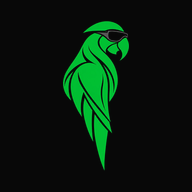
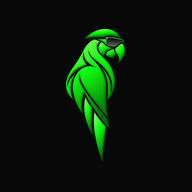
Troca o papagaio do site pelo icone oficial (volume por pena)
Favicons, icones do app, papagaio do menu, da conta, do album, do Spotted,
do quiz e da loja passam a usar o icone oficial v2. Mesmos tamanhos e
enquadramento dos arquivos antigos; cache renovado com ?v=3. Adiciona
tambem o PNG do peito 8x8 (945 px, 300 dpi) para a grafica.

Claude-Session: https://claude.ai/code/session_01F5cCgwQMnGX2ZhCRgGpQfT

Changed region(s): [[0.3125, 0.0938, 0.6875, 0.9062]]

diff --git a/src/pages/sacola.html b/src/pages/sacola.html
@@ -1,2 +1,2 @@
 <!--meta {"path":"/sacola","nav":"loja","funnel":true,"title":"Sua sacola · Brazilian Bayle","description":"Confira suas camisetas e os dados de entrega."} -->
-<header class="commerce-nav"><a href="/loja" class="commerce-brand"><img src="/assets/shop/bayle/papagaio-oficial.svg" alt="Brazilian Bayle" width="28" height="48"><span>BRAZILIAN <em>Bayle</em></span></a><div class="commerce-nav-links"><button type="button" class="commerce-help" data-support-open aria-haspopup="dialog" aria-controls="supportDialog">Ajuda</button><a href="/sacola">Sacola (<span data-cart-count>0</span>)</a></div></header><section class="commerce-shell"><a class="commerce-back" href="/loja">← Voltar para a coleção</a><p class="commerce-kicker">BRAZILIAN BAYLE · SUA COLEÇÃO</p><h1>Pronta para <em>a pista.</em></h1><p class="commerce-lead">Confira suas peças e calcule o frete pelo CEP.</p><div id="commerceAdded" class="commerce-notice commerce-added" role="status" hidden></div><div id="commerceNotice" class="commerce-notice" role="status" hidden></div><div class="commerce-columns"><section class="commerce-panel" aria-labelledby="bag-heading"><h2 id="bag-heading">Sua sacola</h2><form id="chooseVariant" class="commerce-variant" hidden><h3 id="variantName"></h3><img id="variantImage" class="commerce-variant-image" alt="" width="576" height="768"><div class="commerce-fields"><label>Cor<select name="color" required><option value="">Selecione</option><option value="preta">Preta</option><option value="off-white">Off-white</option><option value="cinza">Cinza</option></select></label><label>Tamanho<select name="size" required><option value="">Selecione</option></select></label></div><p class="commerce-error" id="variantError" role="alert"></p><button class="commerce-primary" type="submit">Adicionar à sacola</button></form><div id="cartLines"></div><div data-size-guide></div><p id="cartEmpty" hidden>Sua sacola está vazia. <a href="/loja">Escolher uma camiseta ↗</a></p><div id="cartTotals" class="commerce-totals"><p>Produtos <strong id="cartSubtotal">—</strong></p><p>Frete <strong id="cartShipping">A calcular</strong></p><p class="commerce-grand">Total <strong id="cartTotal">—</strong></p></div></section><section id="purchaseSteps" class="commerce-panel" hidden><form id="quoteForm"><p class="commerce-kicker">01 · FRETE</p><h2>Qual é o CEP de entrega?</h2><div class="commerce-fields"><label>CEP<input name="postal_code" inputmode="numeric" autocomplete="postal-code" required pattern="[0-9\-]{8,9}"></label></div><div id="shippingChoices" hidden><label class="commerce-fields">Modalidade de frete<select id="shippingService"></select></label></div><p class="commerce-error" id="quoteError" role="alert"></p><button class="commerce-primary" type="submit" id="quoteButton">Calcular frete</button><button class="commerce-primary" type="button" id="deliveryNext" hidden>Continuar para entrega →</button></form><form id="deliveryForm" hidden><p class="commerce-kicker">02 · ENTREGA</p><h2 tabindex="-1" id="deliveryHeading">Dados de entrega</h2><p>CEP de entrega <strong id="deliveryCep"></strong></p><button id="editCep" type="button" class="bayle-details">Alterar CEP ou frete</button><fieldset class="commerce-fields"><legend>Quem recebe</legend><label class="full">Nome completo<input name="name" autocomplete="name" required minlength="3" maxlength="100"></label><label class="full">E-mail<input name="email" type="email" autocomplete="email" required maxlength="254"></label><label>CPF<input name="document" inputmode="numeric" autocomplete="off" required pattern="[0-9.\-]{11,14}"></label><label>Celular<input name="phone" type="tel" autocomplete="tel" required maxlength="15"></label></fieldset><fieldset class="commerce-fields"><legend>Onde entregar</legend><p class="commerce-fine full" id="addressStatus" role="status" aria-live="polite"></p><label class="full">Rua / avenida<input name="street" autocomplete="address-line1" required maxlength="150"></label><label>Número<input name="number" required maxlength="20"></label><label>Complemento <span>(opcional)</span><input name="complement" autocomplete="address-line2" maxlength="100"></label><label>Bairro<input name="neighborhood" required maxlength="100"></label><label>Cidade<input name="city" autocomplete="address-level2" required maxlength="100"></label><label>UF<select name="state" autocomplete="address-level1" required><option value="">Selecione</option><option>AC</option><option>AL</option><option>AP</option><option>AM</option><option>BA</option><option>CE</option><option>DF</option><option>ES</option><option>GO</option><option>MA</option><option>MT</option><option>MS</option><option>MG</option><option>PA</option><option>PB</option><option>PR</option><option>PE</option><option>PI</option><option>RJ</option><option>RN</option><option>RS</option><option>RO</option><option>RR</option><option>SC</option><option>SP</option><option>SE</option><option>TO</option></select></label></fieldset><p class="commerce-notice" id="paymentUnavailable" role="status" hidden>O pagamento online será liberado em breve.</p><p class="commerce-error" id="deliveryError" role="alert"></p><button class="commerce-primary" type="submit" id="checkoutCta" data-mp-checkout-cta="checkout-api">Continuar para pagamento →</button><p class="commerce-fine">Seus dados serão usados para processar o pedido e a entrega. <a href="/privacidade">Política de privacidade</a>.</p></form></section></div></section>
+<header class="commerce-nav"><a href="/loja" class="commerce-brand"><img src="/assets/shop/bayle/papagaio-oficial.svg?v=3" alt="Brazilian Bayle" width="28" height="48"><span>BRAZILIAN <em>Bayle</em></span></a><div class="commerce-nav-links"><button type="button" class="commerce-help" data-support-open aria-haspopup="dialog" aria-controls="supportDialog">Ajuda</button><a href="/sacola">Sacola (<span data-cart-count>0</span>)</a></div></header><section class="commerce-shell"><a class="commerce-back" href="/loja">← Voltar para a coleção</a><p class="commerce-kicker">BRAZILIAN BAYLE · SUA COLEÇÃO</p><h1>Pronta para <em>a pista.</em></h1><p class="commerce-lead">Confira suas peças e calcule o frete pelo CEP.</p><div id="commerceAdded" class="commerce-notice commerce-added" role="status" hidden></div><div id="commerceNotice" class="commerce-notice" role="status" hidden></div><div class="commerce-columns"><section class="commerce-panel" aria-labelledby="bag-heading"><h2 id="bag-heading">Sua sacola</h2><form id="chooseVariant" class="commerce-variant" hidden><h3 id="variantName"></h3><img id="variantImage" class="commerce-variant-image" alt="" width="576" height="768"><div class="commerce-fields"><label>Cor<select name="color" required><option value="">Selecione</option><option value="preta">Preta</option><option value="off-white">Off-white</option><option value="cinza">Cinza</option></select></label><label>Tamanho<select name="size" required><option value="">Selecione</option></select></label></div><p class="commerce-error" id="variantError" role="alert"></p><button class="commerce-primary" type="submit">Adicionar à sacola</button></form><div id="cartLines"></div><div data-size-guide></div><p id="cartEmpty" hidden>Sua sacola está vazia. <a href="/loja">Escolher uma camiseta ↗</a></p><div id="cartTotals" class="commerce-totals"><p>Produtos <strong id="cartSubtotal">—</strong></p><p>Frete <strong id="cartShipping">A calcular</strong></p><p class="commerce-grand">Total <strong id="cartTotal">—</strong></p></div></section><section id="purchaseSteps" class="commerce-panel" hidden><form id="quoteForm"><p class="commerce-kicker">01 · FRETE</p><h2>Qual é o CEP de entrega?</h2><div class="commerce-fields"><label>CEP<input name="postal_code" inputmode="numeric" autocomplete="postal-code" required pattern="[0-9\-]{8,9}"></label></div><div id="shippingChoices" hidden><label class="commerce-fields">Modalidade de frete<select id="shippingService"></select></label></div><p class="commerce-error" id="quoteError" role="alert"></p><button class="commerce-primary" type="submit" id="quoteButton">Calcular frete</button><button class="commerce-primary" type="button" id="deliveryNext" hidden>Continuar para entrega →</button></form><form id="deliveryForm" hidden><p class="commerce-kicker">02 · ENTREGA</p><h2 tabindex="-1" id="deliveryHeading">Dados de entrega</h2><p>CEP de entrega <strong id="deliveryCep"></strong></p><button id="editCep" type="button" class="bayle-details">Alterar CEP ou frete</button><fieldset class="commerce-fields"><legend>Quem recebe</legend><label class="full">Nome completo<input name="name" autocomplete="name" required minlength="3" maxlength="100"></label><label class="full">E-mail<input name="email" type="email" autocomplete="email" required maxlength="254"></label><label>CPF<input name="document" inputmode="numeric" autocomplete="off" required pattern="[0-9.\-]{11,14}"></label><label>Celular<input name="phone" type="tel" autocomplete="tel" required maxlength="15"></label></fieldset><fieldset class="commerce-fields"><legend>Onde entregar</legend><p class="commerce-fine full" id="addressStatus" role="status" aria-live="polite"></p><label class="full">Rua / avenida<input name="street" autocomplete="address-line1" required maxlength="150"></label><label>Número<input name="number" required maxlength="20"></label><label>Complemento <span>(opcional)</span><input name="complement" autocomplete="address-line2" maxlength="100"></label><label>Bairro<input name="neighborhood" required maxlength="100"></label><label>Cidade<input name="city" autocomplete="address-level2" required maxlength="100"></label><label>UF<select name="state" autocomplete="address-level1" required><option value="">Selecione</option><option>AC</option><option>AL</option><option>AP</option><option>AM</option><option>BA</option><option>CE</option><option>DF</option><option>ES</option><option>GO</option><option>MA</option><option>MT</option><option>MS</option><option>MG</option><option>PA</option><option>PB</option><option>PR</option><option>PE</option><option>PI</option><option>RJ</option><option>RN</option><option>RS</option><option>RO</option><option>RR</option><option>SC</option><option>SP</option><option>SE</option><option>TO</option></select></label></fieldset><p class="commerce-notice" id="paymentUnavailable" role="status" hidden>O pagamento online será liberado em breve.</p><p class="commerce-error" id="deliveryError" role="alert"></p><button class="commerce-primary" type="submit" id="checkoutCta" data-mp-checkout-cta="checkout-api">Continuar para pagamento →</button><p class="commerce-fine">Seus dados serão usados para processar o pedido e a entrega. <a href="/privacidade">Política de privacidade</a>.</p></form></section></div></section>

diff --git a/src/pages/checkout.html b/src/pages/checkout.html
@@ -1,2 +1,2 @@
 <!--meta {"path":"/checkout","nav":"loja","funnel":true,"title":"Pagamento · Brazilian Bayle","description":"Finalize seu pedido com Mercado Pago."} -->
-<header class="commerce-nav"><a href="/loja" class="commerce-brand"><img src="/assets/shop/bayle/papagaio-oficial.svg" alt="Brazilian Bayle" width="28" height="48"><span>BRAZILIAN <em>Bayle</em></span></a><div class="commerce-nav-links"><button type="button" class="commerce-help" data-support-open aria-haspopup="dialog" aria-controls="supportDialog">Ajuda</button><a href="/sacola">Sacola (<span data-cart-count>0</span>)</a></div></header><section class="commerce-shell"><a class="commerce-back" href="/sacola">← Rever sacola e entrega</a><p class="commerce-kicker">03 · PAGAMENTO SEGURO</p><h1>O próximo Bayle <em>é seu.</em></h1><div id="commerceNotice" class="commerce-notice" role="status" hidden></div><div class="commerce-columns"><aside class="commerce-panel"><h2>Resumo do pedido</h2><div id="paymentLines"></div><div data-size-guide></div><div class="commerce-totals"><p>Produtos <strong id="paymentSubtotal">—</strong></p><p>Frete <strong id="paymentShipping">—</strong></p><p class="commerce-grand">Total <strong id="paymentTotal">—</strong></p></div><p class="commerce-fine">Pagamento processado pelo Mercado Pago. Os dados do cartão são preenchidos em campos protegidos.</p></aside><section class="commerce-panel"><h2>Como prefere pagar?</h2><div class="commerce-methods" role="group" aria-label="Meio de pagamento"><button type="button" data-method="pix" aria-pressed="true">Pix</button><button type="button" data-method="card" aria-pressed="false">Cartão de crédito</button></div><section id="pixPanel"><p>Pague pelo aplicativo do seu banco. O pedido só será confirmado após a aprovação do pagamento.</p><button class="commerce-primary" id="pixPay" type="button" disabled>Gerar Pix</button><div id="pixResult" hidden><img id="pixQr" alt="QR Code para pagamento Pix" width="240" height="240" hidden><label>Pix copia e cola<textarea id="pixCode" readonly rows="4"></textarea></label><button type="button" class="commerce-secondary" id="copyPix">Copiar código Pix</button><p>Aguardando confirmação do banco.</p></div></section><form id="form-checkout" hidden><label>Escolha o número de parcelas<select id="cardInstallments"><option value="1">1x</option><option value="2">2x</option><option value="3">3x</option><option value="4">4x</option><option value="5">5x</option><option value="6">6x</option><option value="7">7x</option><option value="8">8x</option><option value="9">9x</option><option value="10">10x</option></select></label><p id="cardInstallmentsStatus" class="commerce-fine" role="status">As condições aparecem após informar o cartão.</p><label>Número do cartão<div id="form-checkout__cardNumber" class="secure-field"></div></label><div class="commerce-fields"><label>Validade<div id="form-checkout__expirationDate" class="secure-field"></div></label><label>Código de segurança<div id="form-checkout__securityCode" class="secure-field"></div></label></div><label>Nome no cartão<input id="form-checkout__cardholderName" autocomplete="cc-name" required></label><label>E-mail do titular<input id="form-checkout__cardholderEmail" type="email" autocomplete="email" required></label><label>CPF do titular<input id="form-checkout__identificationNumber" inputmode="numeric" required></label><select id="form-checkout__issuer" hidden aria-label="Emissor"></select><select id="form-checkout__installments" hidden aria-label="Parcelas do Mercado Pago"></select><select id="form-checkout__identificationType" hidden aria-label="Tipo de documento"><option value="CPF">CPF</option></select><p class="commerce-fine">Parcele em até 10x. As opções, os juros e o valor das parcelas são informados pelo Mercado Pago para o seu cartão.</p><button class="commerce-primary" id="cardPay" type="submit" disabled>Pagar com cartão</button></form><p id="paymentMessage" class="commerce-notice" role="status" aria-live="polite">Carregando pedido…</p><button type="button" class="commerce-secondary" id="refreshPayment" hidden>Consultar pagamento</button></section></div></section>
+<header class="commerce-nav"><a href="/loja" class="commerce-brand"><img src="/assets/shop/bayle/papagaio-oficial.svg?v=3" alt="Brazilian Bayle" width="28" height="48"><span>BRAZILIAN <em>Bayle</em></span></a><div class="commerce-nav-links"><button type="button" class="commerce-help" data-support-open aria-haspopup="dialog" aria-controls="supportDialog">Ajuda</button><a href="/sacola">Sacola (<span data-cart-count>0</span>)</a></div></header><section class="commerce-shell"><a class="commerce-back" href="/sacola">← Rever sacola e entrega</a><p class="commerce-kicker">03 · PAGAMENTO SEGURO</p><h1>O próximo Bayle <em>é seu.</em></h1><div id="commerceNotice" class="commerce-notice" role="status" hidden></div><div class="commerce-columns"><aside class="commerce-panel"><h2>Resumo do pedido</h2><div id="paymentLines"></div><div data-size-guide></div><div class="commerce-totals"><p>Produtos <strong id="paymentSubtotal">—</strong></p><p>Frete <strong id="paymentShipping">—</strong></p><p class="commerce-grand">Total <strong id="paymentTotal">—</strong></p></div><p class="commerce-fine">Pagamento processado pelo Mercado Pago. Os dados do cartão são preenchidos em campos protegidos.</p></aside><section class="commerce-panel"><h2>Como prefere pagar?</h2><div class="commerce-methods" role="group" aria-label="Meio de pagamento"><button type="button" data-method="pix" aria-pressed="true">Pix</button><button type="button" data-method="card" aria-pressed="false">Cartão de crédito</button></div><section id="pixPanel"><p>Pague pelo aplicativo do seu banco. O pedido só será confirmado após a aprovação do pagamento.</p><button class="commerce-primary" id="pixPay" type="button" disabled>Gerar Pix</button><div id="pixResult" hidden><img id="pixQr" alt="QR Code para pagamento Pix" width="240" height="240" hidden><label>Pix copia e cola<textarea id="pixCode" readonly rows="4"></textarea></label><button type="button" class="commerce-secondary" id="copyPix">Copiar código Pix</button><p>Aguardando confirmação do banco.</p></div></section><form id="form-checkout" hidden><label>Escolha o número de parcelas<select id="cardInstallments"><option value="1">1x</option><option value="2">2x</option><option value="3">3x</option><option value="4">4x</option><option value="5">5x</option><option value="6">6x</option><option value="7">7x</option><option value="8">8x</option><option value="9">9x</option><option value="10">10x</option></select></label><p id="cardInstallmentsStatus" class="commerce-fine" role="status">As condições aparecem após informar o cartão.</p><label>Número do cartão<div id="form-checkout__cardNumber" class="secure-field"></div></label><div class="commerce-fields"><label>Validade<div id="form-checkout__expirationDate" class="secure-field"></div></label><label>Código de segurança<div id="form-checkout__securityCode" class="secure-field"></div></label></div><label>Nome no cartão<input id="form-checkout__cardholderName" autocomplete="cc-name" required></label><label>E-mail do titular<input id="form-checkout__cardholderEmail" type="email" autocomplete="email" required></label><label>CPF do titular<input id="form-checkout__identificationNumber" inputmode="numeric" required></label><select id="form-checkout__issuer" hidden aria-label="Emissor"></select><select id="form-checkout__installments" hidden aria-label="Parcelas do Mercado Pago"></select><select id="form-checkout__identificationType" hidden aria-label="Tipo de documento"><option value="CPF">CPF</option></select><p class="commerce-fine">Parcele em até 10x. As opções, os juros e o valor das parcelas são informados pelo Mercado Pago para o seu cartão.</p><button class="commerce-primary" id="cardPay" type="submit" disabled>Pagar com cartão</button></form><p id="paymentMessage" class="commerce-notice" role="status" aria-live="polite">Carregando pedido…</p><button type="button" class="commerce-secondary" id="refreshPayment" hidden>Consultar pagamento</button></section></div></section>

diff --git a/_local/build.js b/_local/build.js
@@ -34,7 +34,7 @@ const ORG = {
   "@type": "Organization",
   name: "Brazilian Bayle",
   url: SITE,
-  logo: `${SITE}/assets/icon-512.png`,
+  logo: `${SITE}/assets/icon-512.png?v=3`,
   email: EMAIL,
   sameAs: [IG],
   areaServed: "BR",
@@ -53,8 +53,8 @@ const WEBSITE = {
 const CLARITY_TAG = "<script type=\"text/javascript\">(function(c,l,a,r,i,t,y){\n    c[a]=c[a]||function(){(c[a].q=c[a].q||[]).push(arguments)};\n    t=l.createElement(r);t.async=1;t.src=\"https://www.clarity.ms/tag/\"+i;\n    y=l.getElementsByTagName(r)[0];y.parentNode.insertBefore(t,y);\n})(window, document, \"clarity\", \"script\", \"zjw9clb29l\");</script>";
 
 function layout(meta, body) {
-  if (meta.nav === 'moderacao') return `<!doctype html><html lang="pt-BR"><head><meta charset="utf-8"><meta name="viewport" content="width=device-width,initial-scale=1"><title>Moderação · Brazilian Bayle</title><meta name="robots" content="noindex,nofollow"><meta name="theme-color" content="#1c2430"><link rel="icon" href="/assets/favicon-32.png"><link rel="stylesheet" href="/moderacao.css">${CLARITY_TAG}</head><body>${body.trim()}<script src="/assets/vendor/supabase-2.49.8.js"></script><script src="/backend-config.js"></script><script src="/backend.js"></script><script src="/events-2026.js"></script><script src="/moderation.js"></script></body></html>`;
-  if (meta.nav === 'links') return `<!doctype html><html lang="pt-BR"><head><meta charset="utf-8"><meta name="viewport" content="width=device-width,initial-scale=1,viewport-fit=cover"><title>Links oficiais · Brazilian Bayle</title><meta name="description" content="${esc(meta.description)}"><link rel="canonical" href="${SITE}/links"><meta name="theme-color" content="#080908"><meta property="og:type" content="website"><meta property="og:title" content="Brazilian Bayle · Links oficiais"><meta property="og:description" content="${esc(meta.description)}"><meta property="og:url" content="${SITE}/links"><meta property="og:image" content="${SITE}/assets/og-brazilian-v3.jpg"><link rel="icon" href="/assets/favicon-32.png"><link rel="preload" href="/assets/fonts/syne-700.woff2" as="font" type="font/woff2" crossorigin><link rel="preload" href="/assets/hero-dj-poster-800.webp" as="image"><link rel="stylesheet" href="/styles.css">${CLARITY_TAG}</head><body class="page-links"><a class="skip" href="#conteudo">Pular para os links</a>${body.trim()}<script src="/media-guard.js" defer></script></body></html>`;
+  if (meta.nav === 'moderacao') return `<!doctype html><html lang="pt-BR"><head><meta charset="utf-8"><meta name="viewport" content="width=device-width,initial-scale=1"><title>Moderação · Brazilian Bayle</title><meta name="robots" content="noindex,nofollow"><meta name="theme-color" content="#1c2430"><link rel="icon" href="/assets/favicon-32.png?v=3"><link rel="stylesheet" href="/moderacao.css">${CLARITY_TAG}</head><body>${body.trim()}<script src="/assets/vendor/supabase-2.49.8.js"></script><script src="/backend-config.js"></script><script src="/backend.js"></script><script src="/events-2026.js"></script><script src="/moderation.js"></script></body></html>`;
+  if (meta.nav === 'links') return `<!doctype html><html lang="pt-BR"><head><meta charset="utf-8"><meta name="viewport" content="width=device-width,initial-scale=1,viewport-fit=cover"><title>Links oficiais · Brazilian Bayle</title><meta name="description" content="${esc(meta.description)}"><link rel="canonical" href="${SITE}/links"><meta name="theme-color" content="#080908"><meta property="og:type" content="website"><meta property="og:title" content="Brazilian Bayle · Links oficiais"><meta property="og:description" content="${esc(meta.description)}"><meta property="og:url" content="${SITE}/links"><meta property="og:image" content="${SITE}/assets/og-brazilian-v3.jpg"><link rel="icon" href="/assets/favicon-32.png?v=3"><link rel="preload" href="/assets/fonts/syne-700.woff2" as="font" type="font/woff2" crossorigin><link rel="preload" href="/assets/hero-dj-poster-800.webp" as="image"><link rel="stylesheet" href="/styles.css">${CLARITY_TAG}</head><body class="page-links"><a class="skip" href="#conteudo">Pular para os links</a>${body.trim()}<script src="/media-guard.js" defer></script></body></html>`;
   const url = SITE + (meta.path === "/" ? "/" : meta.path);
   const title = meta.path === "/" ? meta.title : `${meta.title} · Brazilian Bayle`;
   const jsonld = [ORG, WEBSITE, ...(meta.jsonld || [])].map(j => `<script type="application/ld+json">${JSON.stringify(j)}</script>`).join("\n");
@@ -73,9 +73,9 @@ ${meta.path === "/" ? '<meta name="facebook-domain-verification" content="a76rwo
 ${meta.noindex ? '<meta name="robots" content="noindex">' : ""}
 <meta name="theme-color" content="#FFD400">
 <link rel="icon" href="/favicon.ico" sizes="48x48">
-<link rel="icon" type="image/png" sizes="48x48" href="/assets/favicon-48.png">
-<link rel="icon" type="image/png" sizes="192x192" href="/assets/icon-192.png?v=2">
-<link rel="apple-touch-icon" href="/assets/apple-touch-icon.png?v=2">
+<link rel="icon" type="image/png" sizes="48x48" href="/assets/favicon-48.png?v=3">
+<link rel="icon" type="image/png" sizes="192x192" href="/assets/icon-192.png?v=3">
+<link rel="apple-touch-icon" href="/assets/apple-touch-icon.png?v=3">
 <meta property="og:type" content="${meta.ogType || "website"}">
 <meta property="og:site_name" content="Brazilian Bayle">
 <meta property="og:locale" content="pt_BR">
@@ -106,7 +106,7 @@ ${CLARITY_TAG}</head>
   <button class="burger" id="burger" aria-label="Abrir menu" aria-expanded="false" aria-controls="side"><i></i><i></i></button>
   <p class="mbar-tag"><b><img class="mbar-wordmark" src="/assets/logo-menu-b6.png?v=1" alt="Brazilian Bayle" width="115" height="54"></b></p>
   <div class="mbar-access">
-  <a href="/" class="mbar-logo" aria-label="Brazilian Bayle, início"><img src="/assets/papagaio-logo.png?v=2" alt="" width="79" height="180"></a>
+  <a href="/" class="mbar-logo" aria-label="Brazilian Bayle, início"><img src="/assets/papagaio-logo.png?v=3" alt="" width="79" height="180"></a>
   <div class="account-nav"><a class="mbar-account" id="headerLogin" href="/conta">Entrar/Cadastrar</a><button type="button" class="header-user" id="headerUser" aria-expanded="false" aria-controls="headerAccountMenu" hidden><span id="headerNickname"></span><span aria-hidden="true">⌄</span></button><div class="header-account-menu" id="headerAccountMenu" hidden><a href="/conta">Configurações da conta</a><a href="/album">Meu álbum</a><a href="/spotted">Spotted</a><a href="/moderacao" data-owner-only hidden>👑 Moderação <span class="owner-badge" data-owner-badge hidden></span></a><button type="button" id="headerSignOut">Sair da conta</button><p id="headerAccountStatus" role="status"></p></div></div>
   </div>
 </div>

diff --git a/_local/cropped.js b/_local/cropped.js
@@ -2,5 +2,5 @@ const esc=s=>String(s).replace(/&/g,'&amp;').replace(/"/g,'&quot;').replace(/</g
 const colors=[['preta','Preta','#0b0b0b'],['off-white','Off-white','#ece6d8'],['cinza','Cinza','#8a8a86']];
 const photo=(p,color='preta')=>`/assets/shop/cropped/${p.artwork}-${color}${p.version||''}.webp`;
 module.exports=(products,SITE)=>products.map(p=>({rel:`loja/${p.slug}`,meta:{path:`/loja/${p.slug}`,nav:'produto',funnel:true,title:`Cropped ${p.name}`,description:`Cropped feminino Basic Streetwear ${p.name}. Preto, off-white ou cinza. 100% algodão.`,ogImage:SITE+photo(p)},body:`
-<header class="commerce-nav"><a href="/loja-feminina" class="commerce-brand"><img src="/assets/shop/bayle/papagaio-oficial.svg" alt="Brazilian Bayle" width="28" height="48"><span>BRAZILIAN <em>Bayle</em></span></a><div class="commerce-nav-links"><a href="/loja-feminina#feminina">Coleção</a><button type="button" class="commerce-help" data-support-open>Ajuda</button><a href="/sacola">Sacola (<span data-cart-count>0</span>)</a></div></header>
+<header class="commerce-nav"><a href="/loja-feminina" class="commerce-brand"><img src="/assets/shop/bayle/papagaio-oficial.svg?v=3" alt="Brazilian Bayle" width="28" height="48"><span>BRAZILIAN <em>Bayle</em></span></a><div class="commerce-nav-links"><a href="/loja-feminina#feminina">Coleção</a><button type="button" class="commerce-help" data-support-open>Ajuda</button><a href="/sacola">Sacola (<span data-cart-count>0</span>)</a></div></header>
 <div class="pdp" id="pdp" data-product="${p.id}" data-name="${esc(p.name)}" data-price="3990" data-collection="feminina"><nav class="pdp-crumbs" aria-label="Você está em"><ol><li><a href="/">Início</a></li><li><a href="/loja-feminina">Feminino</a></li><li aria-current="page">${esc(p.name)}</li></ol></nav><div class="pdp-top"><section class="pdp-gallery" aria-label="Fotos do cropped"><ul class="pdp-slides" id="pdpSlides"><li class="pdp-slide pdp-slide-main"><img id="pdpBack" src="${photo(p)}" alt="Cropped ${esc(p.name)}, costas" width="1122" height="1402" fetchpriority="high"></li></ul><p class="pdp-dots" aria-hidden="true"><i></i></p><p class="pdp-mock">Mockup ilustrativo da cor selecionada.</p></section><section class="pdp-buy" aria-labelledby="pdpTitle"><p class="pdp-kicker">Cropped feminino · Basic Streetwear</p><h1 id="pdpTitle">${esc(p.name)}</h1><p class="pdp-lede">Modelagem cropped, mangas amplas e estampa nas costas.</p><p class="pdp-price"><strong data-pdp-price>R$ 39,90</strong><span>no Pix ou no cartão</span></p><form id="pdpForm" class="pdp-form" novalidate><fieldset class="pdp-colors"><legend>Cor: <output id="pdpColorName">Preta</output></legend><div>${colors.map(([v,l,c],i)=>`<label class="pdp-swatch"><input type="radio" name="color" value="${v}"${i?'':' checked'}><span style="--swatch:${c}" aria-hidden="true"></span><b>${l}</b></label>`).join('')}</div></fieldset><fieldset class="pdp-sizes"><legend>Tamanho<a href="#medidas" class="pdp-guide-link">Tabela de medidas</a></legend><div>${p.sizes.map(s=>`<label class="pdp-size"><input type="radio" name="size" value="${s}" required><span>${s}</span></label>`).join('')}</div></fieldset><p class="commerce-error" id="pdpError" role="alert"></p><button class="commerce-primary pdp-cta" type="submit" name="intent" value="buy" id="pdpBuy">Comprar agora</button><button class="pdp-add" type="submit" name="intent" value="add">Adicionar à sacola e continuar vendo</button><div class="commerce-notice pdp-added" id="pdpAdded" role="status" hidden></div></form><form id="pdpFreight" class="pdp-freight" novalidate><label for="pdpCep">Calcule o frete e o prazo</label><div><input id="pdpCep" name="cep" inputmode="numeric" autocomplete="postal-code" placeholder="00000-000" maxlength="9" required><button type="submit">Calcular</button></div><p class="commerce-fine" id="pdpFreightResult" role="status" aria-live="polite"></p></form><ul class="pdp-trust"><li><b>Pagamento seguro</b> pelo Mercado Pago, no Pix ou no cartão.</li><li><b>Entrega pelos Correios</b>, PAC ou SEDEX.</li><li><b>7 dias para desistir</b> depois de receber.</li></ul></section></div><div class="pdp-info"><section class="pdp-block" id="medidas" aria-labelledby="cropped-medidas"><h2 id="cropped-medidas">Tabela de medidas</h2><table class="pdp-table"><caption>Medidas do Cropped Streetwear em centímetros</caption><thead><tr><th scope="col">Tamanho</th><th scope="col">Largura</th><th scope="col">Comprimento</th><th scope="col">Manga</th></tr></thead><tbody><tr><th scope="row">P</th><td>55</td><td>36,5</td><td>15,5</td></tr><tr><th scope="row">M</th><td>59</td><td>38,5</td><td>16</td></tr><tr><th scope="row">G</th><td>61,5</td><td>42,5</td><td>17</td></tr><tr><th scope="row">GG</th><td>62</td><td>44,5</td><td>18</td></tr></tbody></table><p class="pdp-note">Compare com uma peça sua estendida sobre uma mesa. A largura é medida de um lado ao outro, não a circunferência.</p><p class="pdp-note">Fonte: <a href="https://hotprinti.com.br/produtos/" target="_blank" rel="noopener">HotPrinti · Cropped Streetwear</a>.</p></section><section class="pdp-block"><h2>Detalhes da peça</h2><ul class="pdp-list"><li>Cropped feminino Basic Streetwear</li><li>100% algodão, fio 30.1 penteado e gramatura de 180 g</li><li>Gola em ribana canelada 2×1 com 2,5 cm</li><li>Reforço de ombro a ombro</li><li>Cores: preta, off-white e cinza</li></ul></section></div><section class="pdp-more"><h2>Outras estampas</h2><ul>${products.filter(o=>o.id!==p.id).map(o=>`<li><a href="/loja/${o.slug}"><img src="${photo(o)}" alt="" width="1122" height="1402" loading="lazy"><span>${esc(o.name)}</span><small>R$ 39,90</small></a></li>`).join('')}</ul></section><div class="pdp-bar" id="pdpBar" hidden><div><b>${esc(p.name)}</b><span data-pdp-price>R$ 39,90</span></div><button type="button" class="commerce-primary" id="pdpBarBuy">Comprar</button></div></div>`}));

diff --git a/after.js b/after.js
@@ -103,7 +103,7 @@
   const ic = (n, s = 18) => `<svg viewBox="0 0 24 24" width="${s}" height="${s}" aria-hidden="true" fill="currentColor">${ICON[n]}</svg>`;
   const foto = (a, i, cls) => a.fotos?.[i]
     ? `<img class="${cls}" src="${a.fotos[i]}" alt="Foto ${i + 1} do after ${esc(nomeDe(a))}" loading="lazy" decoding="async">`
-    : `<div class="${cls} af-noimg" aria-hidden="true"><img src="/assets/brand-icon-192.png" alt=""></div>`;
+    : `<div class="${cls} af-noimg" aria-hidden="true"><img src="/assets/brand-icon-192.png?v=3" alt=""></div>`;
   const statusChip = a => {
     if (mine(a)) return { analise: '<span class="af-me wait">Em análise</span>', recusado: '<span class="af-me no">Recusado</span>', encerrado: '<span class="af-me">Encerrado</span>' }[a.status] || '<span class="af-me host">Seu after</span>';
     if (a.status === "analise") return '<span class="af-me wait">Em análise</span>';
@@ -329,7 +329,7 @@
   function wizHTML() {
     const w = S.wiz;
     if (w.sent) return `<div class="af-wiz" role="dialog" aria-modal="true" aria-label="Anúncio enviado"><div class="af-wiz-in af-wiz-done">
-      <img src="/assets/brand-icon-192.png" alt="" width="72" height="72"><h2>Anúncio <em>enviado.</em></h2><p>A equipe Brazilian Bayle vai olhar seu after. Aprovado, ele vai ao ar e você acompanha tudo em Meus anúncios.</p>
+      <img src="/assets/brand-icon-192.png?v=3" alt="" width="72" height="72"><h2>Anúncio <em>enviado.</em></h2><p>A equipe Brazilian Bayle vai olhar seu after. Aprovado, ele vai ao ar e você acompanha tudo em Meus anúncios.</p>
       <button type="button" class="btn btn-y" data-wizclose data-tab="anuncios">Ver meus anúncios</button><p class="af-sign mono">Keep following the Bayle.</p></div></div>`;
     const s = w.step, fee = feeOf(precoCents(w));
     const body = [

diff --git a/_local/port-quiz.js b/_local/port-quiz.js
@@ -14,11 +14,11 @@ JSON.parse(data);
 const jsM = h.match(/<\/script>\s*<script>([\s\S]*?)<\/script>/);
 let js = jsM[1].replace("JSON.parse(document.getElementById('data').textContent)", "window.__BAILINHO_DATA__");
 if (js.includes("document.getElementById('data')")) throw new Error("referência a #data sobrou");
-js = js.replace(/assets\/papagaio\.webp/g, "/assets/quiz/papagaio.webp").replace(/assets\/logo\.webp/g, "/assets/quiz/logo.webp");
+js = js.replace(/assets\/papagaio\.webp/g, "/assets/quiz/papagaio.webp?v=3").replace(/assets\/logo\.webp/g, "/assets/quiz/logo.webp");
 fs.mkdirSync(OUT, { recursive: true });
 
 // markup do corpo (entre </style> e o primeiro <script>)
-const bodyHtml = h.slice(cssB + "</style>".length, h.indexOf("<script", cssB)).replace(/assets\/papagaio\.webp/g, "/assets/quiz/papagaio.webp").replace(/assets\/logo\.webp/g, "/assets/quiz/logo.webp");
+const bodyHtml = h.slice(cssB + "</style>".length, h.indexOf("<script", cssB)).replace(/assets\/papagaio\.webp/g, "/assets/quiz/papagaio.webp?v=3").replace(/assets\/logo\.webp/g, "/assets/quiz/logo.webp");
 
 // o JS carrega os dados por fetch antes de rodar
 const boot = `/* Bailinho · Trilha 1. Carrega /quiz/trilha1.json e inicia o jogo. */
@@ -36,7 +36,7 @@ const page = `<!doctype html>
 <meta name="viewport" content="width=device-width, initial-scale=1">
 <title>Bailinho · Quiz da Brazilian Bayle</title>
 <meta name="description" content="Bailinho: o quiz de música eletrônica da Brazilian Bayle. Trilha 1, entre na pista e mostre que é bayle fino.">
-<link rel="icon" href="/assets/favicon-32.png">
+<link rel="icon" href="/assets/favicon-32.png?v=3">
 <link rel="stylesheet" href="/quiz/quiz.css">
 <link rel="stylesheet" href="/quiz/extra.css">
 </head>

diff --git a/_local/produto.js b/_local/produto.js
@@ -43,7 +43,7 @@ function body(p, all) {
   const colorInputs = COLORS.map(([value, label, hex], i) =>
     `<label class="pdp-swatch"><input type="radio" name="color" value="${value}"${i ? "" : " checked"}><span style="--swatch:${hex}" aria-hidden="true"></span><b>${label}</b></label>`).join("");
   const sizeInputs = SIZES.map(s => `<label class="pdp-size"><input type="radio" name="size" value="${s}" required><span>${s}</span></label>`).join("");
-  return `<header class="commerce-nav"><a href="/loja" class="commerce-brand"><img src="/assets/shop/bayle/papagaio-oficial.svg" alt="Brazilian Bayle" width="28" height="48"><span>BRAZILIAN <em>Bayle</em></span></a><div class="commerce-nav-links"><a href="/loja#catalogo">Coleção</a><button type="button" class="commerce-help" data-support-open aria-haspopup="dialog" aria-controls="supportDialog">Ajuda</button><a href="/sacola">Sacola (<span data-cart-count>0</span>)</a></div></header>
+  return `<header class="commerce-nav"><a href="/loja" class="commerce-brand"><img src="/assets/shop/bayle/papagaio-oficial.svg?v=3" alt="Brazilian Bayle" width="28" height="48"><span>BRAZILIAN <em>Bayle</em></span></a><div class="commerce-nav-links"><a href="/loja#catalogo">Coleção</a><button type="button" class="commerce-help" data-support-open aria-haspopup="dialog" aria-controls="supportDialog">Ajuda</button><a href="/sacola">Sacola (<span data-cart-count>0</span>)</a></div></header>
 <div class="pdp" id="pdp" data-product="${p.id}" data-name="${esc(p.name)}" data-price="${PRICE_CENTS}">
 <nav class="pdp-crumbs" aria-label="Você está em"><ol><li><a href="/">Início</a></li><li><a href="/loja">Loja</a></li><li aria-current="page">${esc(p.name)}</li></ol></nav>
 <div class="pdp-top">

diff --git a/src/pages/links.html b/src/pages/links.html
@@ -1,7 +1,7 @@
 <!--meta {"path":"/links","nav":"links","title":"Links oficiais","description":"Entre no universo Brazilian Bayle: site, agenda, Brasileirão dos DJs, BB Network e loja."} -->
 <div class="bio-backdrop" aria-hidden="true"><img src="/assets/hero-dj-poster-800.webp" width="720" height="1280" alt="" fetchpriority="high"></div>
 <main class="bio-page" id="conteudo">
- <header class="bio-brand"><img src="/assets/papagaio-bayle.png" alt="" width="60" height="90"><a href="/" aria-label="Brazilian Bayle, site oficial">BRAZILIAN <em>Bayle</em></a><p class="mono">@brazilianbayle</p></header>
+ <header class="bio-brand"><img src="/assets/papagaio-bayle.png?v=3" alt="" width="60" height="90"><a href="/" aria-label="Brazilian Bayle, site oficial">BRAZILIAN <em>Bayle</em></a><p class="mono">@brazilianbayle</p></header>
  <div class="bio-intro"><p class="mono">Música eletrônica · comunidade</p><h1>A pista é <em>brasileira.</em></h1><p>Escolha seu próximo capítulo.</p></div>
  <nav class="bio-main-links" aria-label="Links principais Brazilian Bayle">
   <a href="/?utm_source=instagram&amp;utm_medium=bio&amp;utm_campaign=links" class="btn btn-gold bio-link bio-featured"><span><small>O universo Brazilian Bayle</small><b>Entrar no site</b></span><span class="bio-arrow" aria-hidden="true">↗</span></a>

diff --git a/quiz-src/quiz.js b/quiz-src/quiz.js
@@ -48,7 +48,7 @@ function start() {
   function setFoot(html, cls) { footIn.innerHTML = html; foot.className = 'foot' + (cls ? ' ' + cls : ''); foot.hidden = false; }
   function hud() {
     $('hearts').textContent = S.hearts; $('xp').textContent = S.xp;
-    $('lvl').innerHTML = '<img src="/assets/quiz/papagaio.webp" alt="">Nível ' + Math.min(levelOf(S.done.size) + 1, STATIONS.length);
+    $('lvl').innerHTML = '<img src="/assets/quiz/papagaio.webp?v=3" alt="">Nível ' + Math.min(levelOf(S.done.size) + 1, STATIONS.length);
     const pct = Math.round(S.done.size / Q.length * 100);
     $('barFill').style.width = pct + '%';
     document.querySelector('.bar').setAttribute('aria-valuenow', pct);
@@ -442,7 +442,7 @@ function start() {
   const best = () => { try { return +localStorage.getItem(STORE) || 0; } catch (e) { return 0; } };
   const saveBest = n => { try { if (n > best()) localStorage.setItem(STORE, String(n)); } catch (e) {} };
   const levelOf = n => STATIONS.filter(s => n >= s.to).length; // estações completas
-  const PARROT = '/assets/quiz/papagaio.webp';
+  const PARROT = '/assets/quiz/papagaio.webp?v=3';
 
   function intro() {
     $('top').hidden = true;

diff --git a/app.js b/app.js
@@ -122,7 +122,7 @@ function rankAward(position) {
 function podiumCard(pos, name, style, note, label, prov) {
   return `<div class="pod pc p${pos}" style="--c:var(--pc${pos})">
     <div class="pc-score"><span class="pc-n" aria-label="${label}">${note}</span></div>
-    <div class="pc-ph"><img src="/assets/djs/${slug(name)}.webp" alt="${name}" width="500" height="500" loading="lazy" decoding="async"><p class="pc-wm"><b>Brazilian <em>Bayle</em></b></p><img class="pc-papa" src="/assets/papagaio-bayle.png" alt="" width="96" height="192" loading="lazy" decoding="async"></div>
+    <div class="pc-ph"><img src="/assets/djs/${slug(name)}.webp" alt="${name}" width="500" height="500" loading="lazy" decoding="async"><p class="pc-wm"><b>Brazilian <em>Bayle</em></b></p><img class="pc-papa" src="/assets/papagaio-bayle.png?v=3" alt="" width="96" height="192" loading="lazy" decoding="async"></div>
     <div class="pc-t"><p class="pc-name"><a href="/djindex/${slug(name)}">${name}</a></p><p class="pc-st mono">${pos}º lugar${prov ? " · provisório" : ""}</p></div>
   </div>`;
 }

diff --git a/spotted.js b/spotted.js
@@ -220,7 +220,7 @@
   const clubberNick = n => { const k = String(n || "").replace(/^@/, "").toLowerCase(); return !!k && clubbers.has(k) && k !== ownerNick; };
   const whoName = w => ownerNick && String(w).toLowerCase() === "@" + ownerNick ? `${ownerTag}<b class="sp-own-name">${esc(w)}</b>` : clubberNick(w) ? `${clubberTag}<b>${esc(w)}</b>` : `<b>${esc(w)}</b>`;
 
-  const seal = '<span class="sp-seal" aria-hidden="true"><img src="/assets/papagaio-bayle.png" alt=""><b>Brazilian<br>Bayle</b></span>';
+  const seal = '<span class="sp-seal" aria-hidden="true"><img src="/assets/papagaio-bayle.png?v=3" alt=""><b>Brazilian<br>Bayle</b></span>';
   function card(p) {
     const u = me(), mine = u && u.email === p.owner, my = u && p.myReaction, rs = reactors(p), emo = Object.fromEntries(REACTIONS.map(([k, e]) => [k, e]));
     const cnt = counts(p), total = Object.values(cnt).reduce((a, b) => a + b, 0), cm = comments(p);

diff --git a/src/pages/loja-feminina.html b/src/pages/loja-feminina.html
@@ -9,7 +9,7 @@
   <img class="outfit-intro-logo" src="/assets/logo-grande-b6.png?v=1" alt="" width="520" height="244"><span>000</span>
 </div>
 <nav class="outfit-nav" aria-label="Navegação da loja">
-  <a class="outfit-brand" href="/"><img src="/assets/shop/bayle/papagaio-oficial.svg" alt="" width="26" height="42"></a>
+  <a class="outfit-brand" href="/"><img src="/assets/shop/bayle/papagaio-oficial.svg?v=3" alt="" width="26" height="42"></a>
   <div><a href="#feminina" aria-current="page">Loja</a><a href="#shop-news">Próximo drop</a><a href="/sacola">Sacola (<span data-cart-count>0</span>)</a><button type="button" class="commerce-help" data-support-open aria-haspopup="dialog" aria-controls="supportDialog">Ajuda</button></div>
 </nav><!--CATEGORIAS_LOJA-->
 <header class="outfit-masthead outfit-hero">
